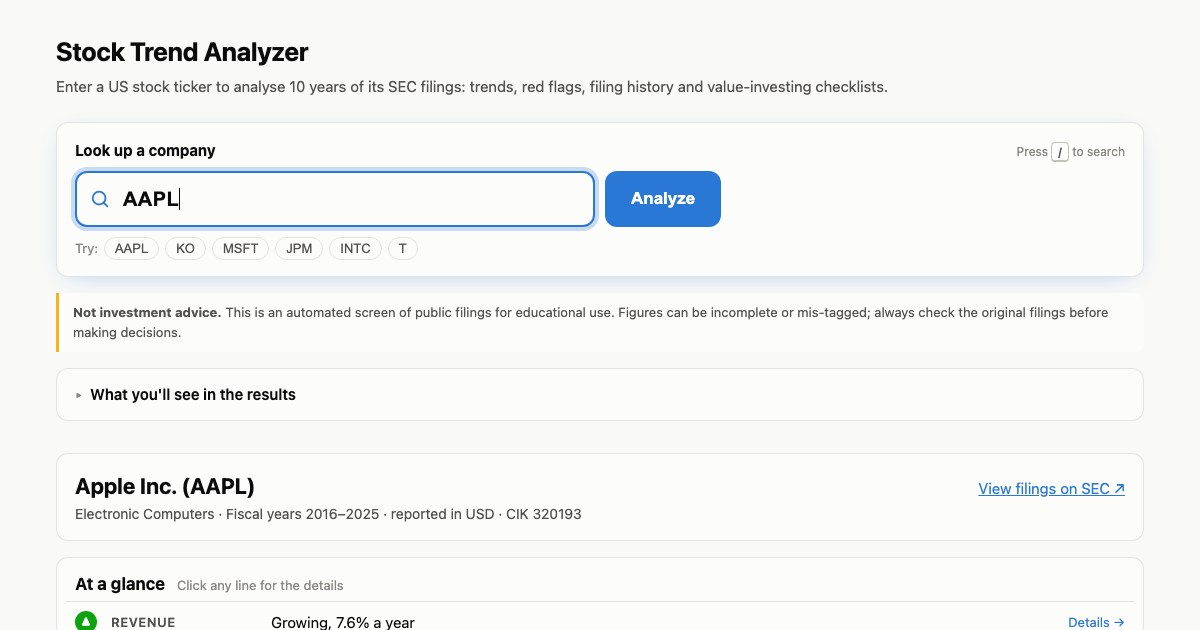
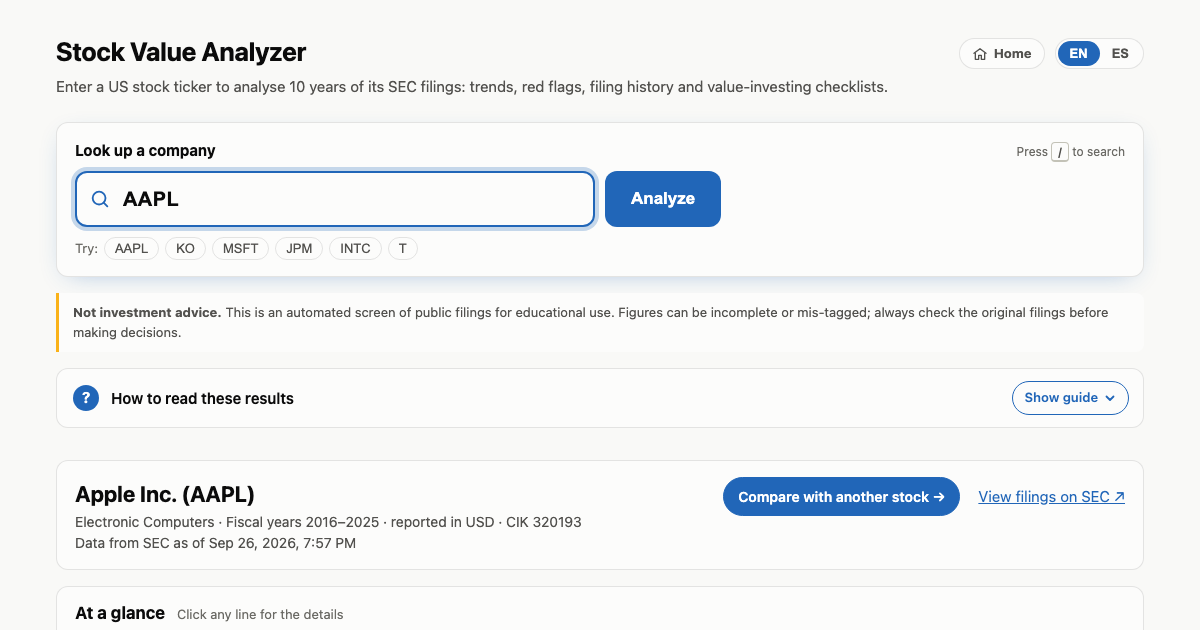
Rename to Stock Value Analyzer and add a Home button
A Home button in the header (and the title) on both pages goes back to a
fresh landing page with a full page load, keeping the chosen language.
The link-preview image is regenerated with the new name.

diff --git a/public/compare.html b/public/compare.html
@@ -3,13 +3,13 @@
 <head>
 <meta charset="utf-8">
 <meta name="viewport" content="width=device-width, initial-scale=1">
-<title>Compare stocks · Stock Trend Analyzer</title>
+<title>Compare stocks · Stock Value Analyzer</title>
 <meta name="description" content="Compare two companies side by side: 10-year trends, red flags and Graham &amp; Buffett checks from their SEC filings.">
 <meta name="theme-color" content="#2a78d6">
 <link rel="icon" href="favicon.svg" type="image/svg+xml">
 <link rel="canonical" href="https://stock-value-analysis.vercel.app/compare.html">
 <meta property="og:type" content="website">
-<meta property="og:title" content="Compare stocks · Stock Trend Analyzer">
+<meta property="og:title" content="Compare stocks · Stock Value Analyzer">
 <meta property="og:description" content="10 years of revenue, earnings and dividend trends from SEC filings, plus automated balance-sheet red flags.">
 <meta property="og:image" content="https://stock-value-analysis.vercel.app/og.png">
 <meta property="og:url" content="https://stock-value-analysis.vercel.app/compare.html">
@@ -34,10 +34,13 @@
 <body>
 <main class="compare-page">
   <header class="top">
-    <h1><a class="home-link" href="index.html">Stock Trend Analyzer</a></h1>
-    <div class="lang-switch" role="group" aria-label="Language / Idioma">
-      <button type="button" data-lang="en" lang="en" aria-pressed="true">EN</button>
-      <button type="button" data-lang="es" lang="es" aria-pressed="false">ES</button>
+    <h1><a class="home-link" href="./">Stock Value Analyzer</a></h1>
+    <div class="top-actions">
+      <a class="home-btn" href="./"><svg viewBox="0 0 24 24" aria-hidden="true"><path d="M3 11l9-7 9 7" fill="none" stroke="currentColor" stroke-width="2" stroke-linecap="round" stroke-linejoin="round"/><path d="M5 10v10h5v-6h4v6h5V10" fill="none" stroke="currentColor" stroke-width="2" stroke-linejoin="round"/></svg><span data-i18n="ui.home">Home</span></a>
+      <div class="lang-switch" role="group" aria-label="Language / Idioma">
+        <button type="button" data-lang="en" lang="en" aria-pressed="true">EN</button>
+        <button type="button" data-lang="es" lang="es" aria-pressed="false">ES</button>
+      </div>
     </div>
   </header>
   <p class="sub" data-i18n="ui.cmp.sub">Compare two companies side by side: 10-year trends, red flags and Graham &amp; Buffett checks from their SEC filings.</p>

diff --git a/public/index.html b/public/index.html
@@ -3,13 +3,13 @@
 <head>
 <meta charset="utf-8">
 <meta name="viewport" content="width=device-width, initial-scale=1">
-<title>Stock Trend Analyzer</title>
+<title>Stock Value Analyzer</title>
 <meta name="description" content="Enter a stock ticker to see 10 years of revenue, earnings and dividend trends from SEC filings, plus automated balance-sheet red flags.">
 <meta name="theme-color" content="#2a78d6">
 <link rel="icon" href="favicon.svg" type="image/svg+xml">
 <link rel="canonical" href="https://stock-value-analysis.vercel.app/">
 <meta property="og:type" content="website">
-<meta property="og:title" content="Stock Trend Analyzer">
+<meta property="og:title" content="Stock Value Analyzer">
 <meta property="og:description" content="10 years of revenue, earnings and dividend trends from SEC filings, plus automated balance-sheet red flags.">
 <meta property="og:image" content="https://stock-value-analysis.vercel.app/og.png">
 <meta property="og:url" content="https://stock-value-analysis.vercel.app/">
@@ -42,10 +42,13 @@
   <symbol id="i-data" viewBox="0 0 24 24"><rect x="3" y="4" width="18" height="16" rx="2"/><path d="M3 10h18M3 15h18M9 4v16"/></symbol>
 </svg>
   <header class="top">
-    <h1>Stock Trend Analyzer</h1>
-    <div class="lang-switch" role="group" aria-label="Language / Idioma">
-      <button type="button" data-lang="en" lang="en" aria-pressed="true">EN</button>
-      <button type="button" data-lang="es" lang="es" aria-pressed="false">ES</button>
+    <h1><a class="home-link" href="./">Stock Value Analyzer</a></h1>
+    <div class="top-actions">
+      <a class="home-btn" href="./"><svg viewBox="0 0 24 24" aria-hidden="true"><path d="M3 11l9-7 9 7" fill="none" stroke="currentColor" stroke-width="2" stroke-linecap="round" stroke-linejoin="round"/><path d="M5 10v10h5v-6h4v6h5V10" fill="none" stroke="currentColor" stroke-width="2" stroke-linejoin="round"/></svg><span data-i18n="ui.home">Home</span></a>
+      <div class="lang-switch" role="group" aria-label="Language / Idioma">
+        <button type="button" data-lang="en" lang="en" aria-pressed="true">EN</button>
+        <button type="button" data-lang="es" lang="es" aria-pressed="false">ES</button>
+      </div>
     </div>
   </header>
   <p class="sub" data-i18n="ui.sub">Enter a US stock ticker to analyse 10 years of its SEC filings: trends, red flags, filing history and value-investing checklists.</p>

diff --git a/public/js/strings/es.js b/public/js/strings/es.js
@@ -434,7 +434,7 @@ export default {
   "cmp.caveat.fiscal": "Sus ejercicios terminan en meses distintos; los años se emparejan por el año natural en que termina cada ejercicio.",
   "cmp.app.loading": "Cargando {ticker}…",
   "cmp.app.sameTicker": "Es la misma empresa que la del otro lado. Elige otro ticker.",
-  "cmp.app.title": "{a} frente a {b} · Stock Trend Analyzer",
+  "cmp.app.title": "{a} frente a {b} · Stock Value Analyzer",
   "cmp.app.measure": "Medida",
   "cmp.app.openFull": "Ver el análisis completo →",
   "cmp.app.more": "(más favorable)",
@@ -568,6 +568,7 @@ export default {
   "ui.gloss.14.def": "Emitir acciones nuevas reduce la parte de cada accionista; recomprarlas la aumenta.",
   "ui.gloss.15.term": "10-K, 20-F, 8-K",
   "ui.gloss.15.def": "Presentaciones ante la SEC: el informe anual (empresas de EE. UU.), el informe anual (empresas extranjeras) y el aviso de un hecho relevante.",
+  "ui.home": "Inicio",
   "ui.footer.data": "Datos: presentaciones de empresas en <a href=\"https://www.sec.gov/edgar/sec-api-documentation\" target=\"_blank\" rel=\"noopener\">SEC EDGAR</a>. Sin relación con la SEC ni con ninguna de las empresas mostradas.",
   "ui.footer.privacy": "Las visitas se cuentan de forma anónima con Vercel Web Analytics: sin cookies ni datos personales.",
   "ui.footer.built": "Creado por Dipak Nehe · <a href=\"https://github.com/dipak-nehe/stock-trend-analyzer\" target=\"_blank\" rel=\"noopener\">Código en GitHub</a>",

diff --git a/public/styles.css b/public/styles.css
@@ -342,3 +342,11 @@
     .cmp-price .price-links { white-space: normal; flex-basis: 100%; }
     .cmp-price { min-width: 0; }
   }
+
+/* ---------- header: home button ---------- */
+  .top-actions { display: flex; align-items: center; gap: 10px; }
+  .home-btn { display: inline-flex; align-items: center; gap: 6px; padding: 5px 12px; border: 1px solid var(--border); border-radius: 999px; background: var(--surface);
+              color: var(--text-2); font-size: 13px; font-weight: 700; text-decoration: none; }
+  .home-btn svg { width: 16px; height: 16px; }
+  .home-btn:hover { color: var(--accent); border-color: var(--accent); }
+  .home-btn:focus-visible, .home-link:focus-visible { outline: 3px solid var(--accent); outline-offset: 2px; }

diff --git a/public/js/page.js b/public/js/page.js
@@ -45,6 +45,8 @@ export function applyStaticText() {
     el.placeholder = lang === "en" ? el.dataset.enPlaceholder : (dict[el.dataset.i18nPlaceholder] ?? el.dataset.enPlaceholder);
   }
   $$(".lang-switch [data-lang]").forEach((b) => b.setAttribute("aria-pressed", String(b.dataset.lang === lang)));
+  // Home goes back to a fresh landing page (a full page load, so nothing from the last lookup is left over)
+  $$("a.home-btn, a.home-link").forEach((a) => a.setAttribute("href", lang === "en" ? "./" : `./?lang=${lang}`));
 }
 
 /** Language from the link, then the remembered choice, then the browser. @param {URLSearchParams} params */

diff --git a/public/js/strings/en.js b/public/js/strings/en.js
@@ -434,7 +434,7 @@ export default {
   "cmp.caveat.fiscal": "Their fiscal years end in different months; years are matched by the calendar year each fiscal year ends.",
   "cmp.app.loading": "Loading {ticker}…",
   "cmp.app.sameTicker": "That's the same company as the other side. Pick a different ticker.",
-  "cmp.app.title": "{a} vs {b} · Stock Trend Analyzer",
+  "cmp.app.title": "{a} vs {b} · Stock Value Analyzer",
   "cmp.app.measure": "Measure",
   "cmp.app.openFull": "Open full analysis →",
   "cmp.app.more": "(more favourable)",

diff --git a/public/js/app.js b/public/js/app.js
@@ -60,7 +60,7 @@ function render(d) {
   $("guide").open = false;  // keep the results in view; the guide stays one click away
   $("guide").classList.add("has-results");  // guide cards now open their tab
   $("guide").querySelector(".guide-title").textContent = t("guide.titleAfter");
-  document.title = `${d.ticker} · Stock Trend Analyzer`;
+  document.title = `${d.ticker} · Stock Value Analyzer`;
   historyFilter = "all"; historyExpanded = false;
   renderHistory();
   renderValue();

diff --git a/tests/e2e/test_ui.py b/tests/e2e/test_ui.py
@@ -483,7 +483,7 @@ def test_no_english_left_in_spanish_results(page, app_url):
     page.goto(f"{app_url}/?t=INTC&lang=es&p=24")
     page.locator("#glance .glance-row").first.wait_for()
     english = re.compile(r"\b(the|and|with|Revenue|Earnings|Needs|Why it matters|years? of|Price is|Not met|Show all)\b")
-    allowed = ("INTEL CORP", "Semiconductors", "Stock Trend Analyzer", "Yahoo Finance", "Google")
+    allowed = ("INTEL CORP", "Semiconductors", "Stock Value Analyzer", "Yahoo Finance", "Google")
     found = []
     for tab in ("overview", "flags", "history", "value", "charts", "data"):
         open_tab(page, tab)
@@ -537,3 +537,30 @@ def test_guide_toggle_looks_and_reads_like_a_control(open_ticker):
     expect(summary.locator(".when-open")).to_have_text("Hide")
     page.click(".lang-switch [data-lang=es]")
     expect(summary.locator(".when-open")).to_have_text("Ocultar")
+
+
+def test_home_button_returns_to_a_fresh_landing_page(open_ticker, app_url, console_errors):
+    page = open_ticker("SMCI", price=30)
+    open_tab(page, "flags")
+    page.click(".home-btn")
+    expect(page).to_have_url(f"{app_url}/")
+    expect(page.locator("#result")).to_be_hidden()
+    expect(page.locator("#ticker")).to_have_value("")
+    expect(page.locator("#price")).to_have_value("")
+    expect(page).to_have_title("Stock Value Analyzer")
+    # and a new search works normally from there
+    page.fill("#ticker", "KO")
+    page.click("#go")
+    expect(page.locator("#coName")).to_have_text("COCA COLA CO (KO)")
+    assert console_errors == []
+
+
+def test_home_keeps_the_language(page, app_url):
+    page.goto(f"{app_url}/?t=KO&lang=es")
+    page.locator("#result").wait_for(state="visible")
+    home = page.locator(".home-btn")
+    expect(home).to_have_text("Inicio")
+    home.click()
+    expect(page).to_have_url(f"{app_url}/?lang=es")
+    expect(page.locator("#result")).to_be_hidden()
+    expect(page.locator("#go")).to_have_text("Analizar")

diff --git a/tests/e2e/test_compare.py b/tests/e2e/test_compare.py
@@ -48,7 +48,7 @@ def test_second_stock_is_fetched_and_compared(page, app_url, console_errors):
     page.click("#goB")
     expect(page.locator("#cmpResult")).to_be_visible()
     expect(page).to_have_url(re.compile(r"\?a=KO&b=AAPL$"))
-    expect(page).to_have_title("KO vs AAPL · Stock Trend Analyzer")
+    expect(page).to_have_title("KO vs AAPL · Stock Value Analyzer")
     expect(page.locator("#cmpCards .cmp-card")).to_have_count(2)
     expect(page.locator("#cmpCards")).to_contain_text("Apple Inc. (AAPL)")
     expect(page.locator("#cmpTable thead")).to_contain_text("KO")
@@ -161,3 +161,11 @@ def test_phone_width_has_no_sideways_scroll(page, app_url):
     page.set_viewport_size({"width": 375, "height": 800})
     open_compare(page, app_url, "a=KO&b=AAPL")
     assert page.evaluate("document.documentElement.scrollWidth") <= 375
+
+
+def test_home_leaves_the_compare_page(page, app_url):
+    open_compare(page, app_url, "a=KO&b=AAPL")
+    page.click(".home-btn")
+    expect(page).to_have_url(f"{app_url}/")
+    expect(page.locator("#result")).to_be_hidden()
+    expect(page.locator("#ticker")).to_have_value("")

diff --git a/server.py b/server.py
@@ -1,4 +1,4 @@
-"""Stock Trend Analyzer - local development server.
+"""Stock Value Analyzer - local development server.
 
 Serves public/index.html and /api/financials (same API as the Vercel function).
 
@@ -63,5 +63,5 @@ if __name__ == "__main__":
             raise
         raise SystemExit(f"Port {PORT} is already in use. Stop the other server (lsof -iTCP:{PORT} -sTCP:LISTEN) "
                          f"or pick another port: PORT=8001 python3 server.py")
-    print(f"Stock Trend Analyzer running at http://localhost:{PORT}")
+    print(f"Stock Value Analyzer running at http://localhost:{PORT}")
     httpd.serve_forever()

diff --git a/tests/test_server.py b/tests/test_server.py
@@ -56,7 +56,7 @@ def local(serve):
 def test_home_page_is_served(local):
     status, headers, body = local("/")
     assert status == 200 and headers["Content-Type"].startswith("text/html")
-    assert b"Stock Trend Analyzer" in body
+    assert b"Stock Value Analyzer" in body
 
 
 @pytest.mark.parametrize("path, ctype", [("/favicon.svg", "image/svg+xml"), ("/og.png", "image/png"),

diff --git a/stock_data.py b/stock_data.py
@@ -1,4 +1,4 @@
-"""Stock Trend Analyzer - data layer.
+"""Stock Value Analyzer - data layer.
 
 Pulls up to 10 years of annual (10-K / 20-F / 40-F) financials for a ticker
 from SEC EDGAR's free XBRL API. Shared by the local server (server.py) and the
